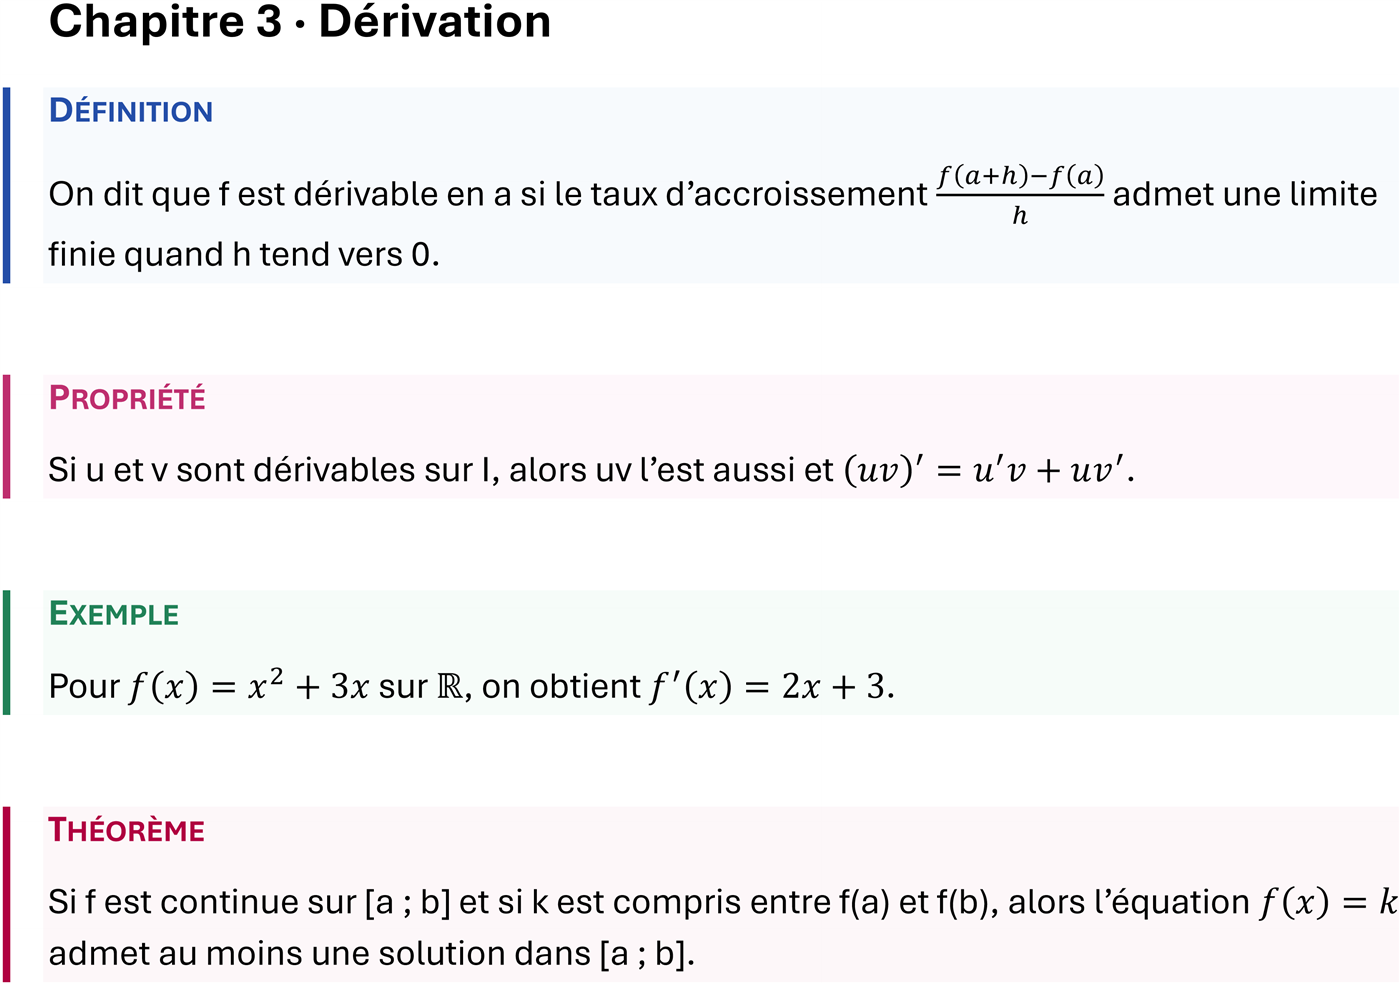
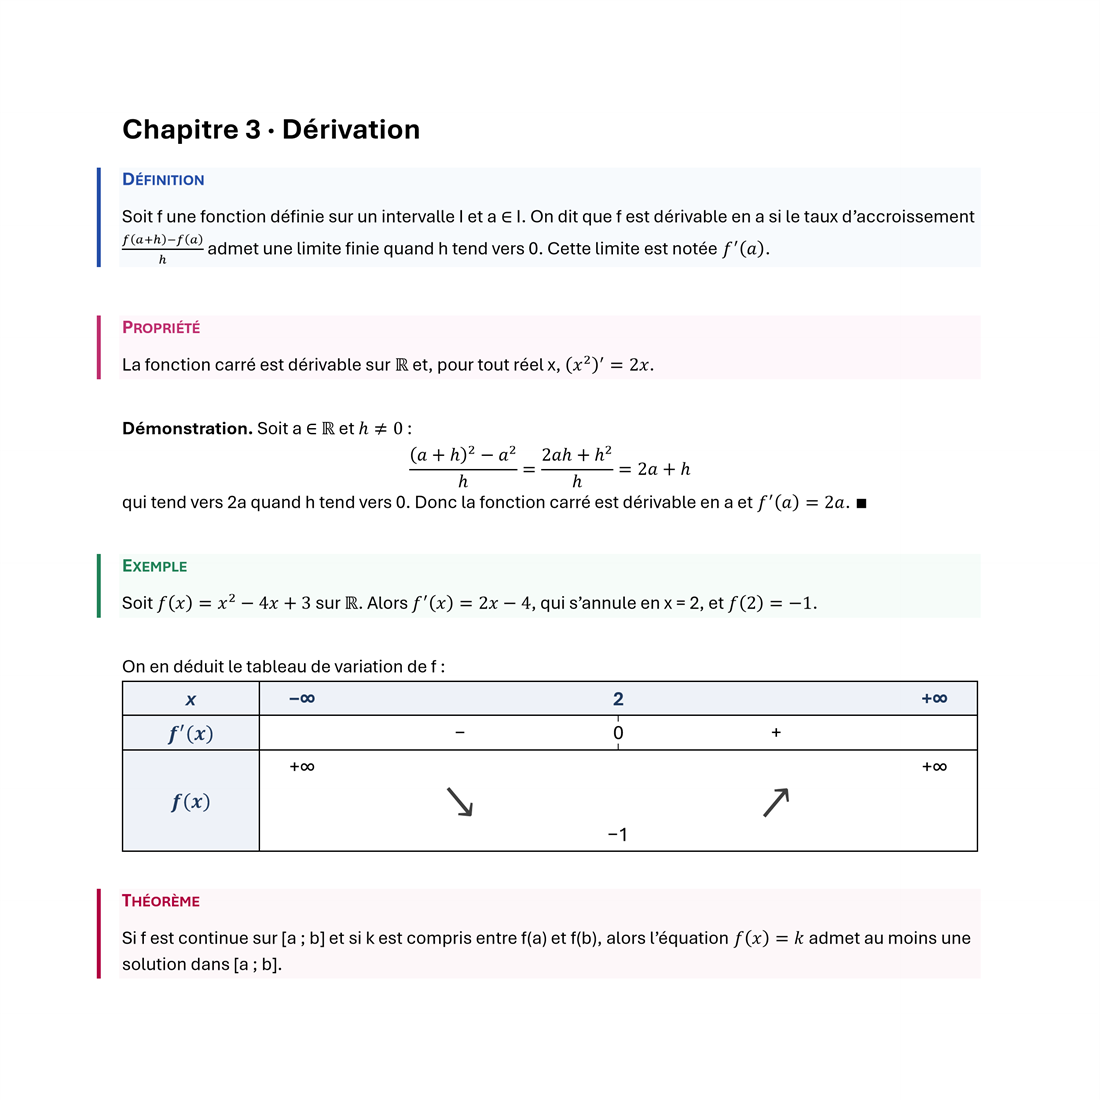
Site - page Profs : cours dans une fenêtre Word simulée, avant / après
Page A4 rendue avec le code de l'add-in (démonstration et tableau de
variation inclus), ruban MathCursor simulé, grand tableau pleine largeur
retiré de « Vos outils ».

diff --git a/docs/prof/index.html b/docs/prof/index.html
@@ -72,9 +72,6 @@
     <section class="section">
       <div class="container">
         <h2 data-i18n="tools_h">Vos outils de cours, directement dans Word</h2>
-        <figure class="card" style="margin: 20px 0 24px; padding: 12px;">
-          <img src="/assets/tableau-variation.png" alt="Tableau de variation de f(x) dans Word, rempli au clavier avec MathCursor" style="width: 100%; height: auto; display: block;" loading="lazy" />
-        </figure>
         <ul class="features">
           <li data-i18n="tools_1"><strong>Tableaux de signe et de variation.</strong> Un bouton dans le ruban, puis tout se remplit au clavier : vous tapez une valeur de <em>x</em> entre deux autres et la colonne s'ajoute, un clic sur une case pose un 0, une valeur interdite ou une flèche.</li>
           <li data-i18n="tools_2"><strong>Encadrés de cours.</strong> Théorème, Définition, Exemple, Propriété : un encadré coloré d'un clic, autour du texte et des formules.</li>
@@ -88,13 +85,45 @@
     <section class="section section--soft">
       <div class="container">
         <h2 data-i18n="show_h">À quoi ressemble un cours tapé dans Word</h2>
-        <p data-i18n="show_p">Un extrait de chapitre : encadrés Définition, Propriété, Exemple et Théorème posés d'un clic, équations Word natives à l'intérieur. Un document que vous imprimez, projetez ou partagez tel quel.</p>
-        <figure class="card" style="margin: 24px 0 0; padding: 20px;">
-          <picture>
-            <source media="(max-width: 640px)" srcset="/assets/cours-derivation-mobile.png" />
-            <img src="/assets/cours-derivation.png" alt="Extrait d'un cours de dérivation dans Word : encadrés Définition, Propriété, Exemple et Théorème avec des équations" style="width: 100%; height: auto; display: block;" loading="lazy" />
-          </picture>
-        </figure>
+        <p data-i18n="show_p">Un extrait de chapitre, tapé au fil de l'eau. À gauche ce que vous écrivez, à droite la page que vos élèves reçoivent : encadrés, équations Word natives, démonstration et tableau de variation.</p>
+
+        <div class="ww" aria-label="Fenêtre Word simulée">
+          <div class="ww-bar"><span class="ww-logo">W</span><span>Chapitre 3 · Dérivation.docx</span></div>
+          <div class="ww-tabs" aria-hidden="true"><span>Fichier</span><span>Accueil</span><span>Insertion</span><span class="ww-hide-s">Mise en page</span><span class="ww-hide-s">Références</span><span class="on">MathCursor</span></div>
+          <div class="ww-ribbon" aria-hidden="true">
+            <div class="ww-grp"><div class="ww-btns"><span class="ww-b ww-b--big"><i>√x</i>Convertir</span><span class="ww-b"><i>▢</i>Encadrer</span></div><div class="ww-gl">Conversion</div></div>
+            <div class="ww-grp ww-hide-s"><div class="ww-btns"><span class="ww-b"><i>H₂O</i>Physique-chimie</span></div><div class="ww-gl">Domaines</div></div>
+            <div class="ww-grp"><div class="ww-btns"><span class="ww-b ww-hide-s"><i>▥</i>Colonnes</span><span class="ww-b on"><i>⊞</i>Tableau</span><span class="ww-b on"><i>▤</i>Encadré</span></div><div class="ww-gl">Mise en page</div></div>
+            <div class="ww-grp ww-hide-s"><div class="ww-btns"><span class="ww-b"><i>⚙</i>Paramètres</span></div><div class="ww-gl">Outils</div></div>
+          </div>
+          <div class="ww-canvas">
+            <div class="ww-col">
+              <div class="ww-cap"><span class="ww-tag" data-i18n="show_before">Avant</span> <span data-i18n="show_before_p">ce que vous tapez</span></div>
+              <div class="ww-page"><div class="ww-typed" lang="fr">
+                <p class="ww-h">Chapitre 3 · Dérivation</p>
+                <span class="ww-chip">Encadré › Définition</span>
+                <p>Soit f une fonction définie sur un intervalle I et a ∈ I. On dit que f est dérivable en a si le taux d'accroissement <code class="ty">(f(a+h) - f(a))/h</code> admet une limite finie quand h tend vers 0. Cette limite est notée <code class="ty">f'(a)</code>.</p>
+                <span class="ww-chip">Encadré › Propriété</span>
+                <p>La fonction carré est dérivable sur ℝ et, pour tout réel x, <code class="ty">(x2)'=2x</code>.</p>
+                <p><strong>Démonstration.</strong> Soit a ∈ ℝ et <code class="ty">h!=0</code> :</p>
+                <p class="ww-c"><code class="ty">((a+h)2 - a2)/h = (2ah + h2)/h = 2a + h</code></p>
+                <p>qui tend vers 2a quand h tend vers 0. Donc la fonction carré est dérivable en a et <code class="ty">f'(a)=2a</code>. ∎</p>
+                <span class="ww-chip">Encadré › Exemple</span>
+                <p>Soit <code class="ty">f(x)=x2-4x+3</code> sur ℝ. Alors <code class="ty">f'(x)=2x-4</code>, qui s'annule en x = 2, et <code class="ty">f(2)=-1</code>.</p>
+                <p>On en déduit le tableau de variation de f :</p>
+                <p class="ww-c"><span class="ww-chip">Tableau</span> puis au clavier : <code class="ty">2</code> <code class="ty">-</code> <code class="ty">+</code> et un clic par flèche</p>
+                <span class="ww-chip">Encadré › Théorème</span>
+                <p>Si f est continue sur [a ; b] et si k est compris entre f(a) et f(b), alors l'équation <code class="ty">f(x)=k</code> admet au moins une solution dans [a ; b].</p>
+              </div></div>
+            </div>
+            <div class="ww-col">
+              <div class="ww-cap"><span class="ww-tag ww-tag--after" data-i18n="show_after">Après</span> <span data-i18n="show_after_p">ce que vos élèves lisent</span></div>
+              <a class="ww-page" href="/assets/cours-derivation.png" target="_blank" rel="noopener">
+                <img src="/assets/cours-derivation.png" alt="Page de cours de dérivation dans Word : encadrés Définition, Propriété, Exemple et Théorème, démonstration et tableau de variation, équations Word natives" loading="lazy" />
+              </a>
+            </div>
+          </div>
+        </div>
       </div>
     </section>
 
@@ -168,7 +197,11 @@
         case_3_p: "Your answer keys are native Word equations: editable, searchable (Ctrl+F), read by screen readers. No frozen images, no plugin required for your colleagues or students to reopen them.",
 
         show_h: "What a lesson typed in Word looks like",
-        show_p: "A chapter excerpt: Definition, Property, Example and Theorem boxes added in one click, with native Word equations inside. A document you print, project or share as is.",
+        show_p: "A chapter excerpt, typed as you go. On the left what you write, on the right the page your students get: boxes, native Word equations, a proof and a variation table.",
+        show_before: "Before",
+        show_before_p: "what you type",
+        show_after: "After",
+        show_after_p: "what your students read",
         tools_h: "Your teaching tools, right in Word",
         tools_1: "<strong>Sign and variation tables.</strong> One ribbon button, then everything is filled in from the keyboard: type an <em>x</em> value between two others and the column is added, one click on a cell puts a 0, a forbidden value or an arrow.",
         tools_2: "<strong>Lesson boxes.</strong> Theorem, Definition, Example, Property: a coloured box in one click, around text and formulas.",

diff --git a/docs/site.css b/docs/site.css
@@ -407,3 +407,39 @@ main > .section:not(.section--soft) + .section:not(.section--soft) { padding-top
 }
 .nav a.active { color: var(--accent-ink); }
 .cta-band a { color: #fff; }
+
+/* ---------- Fenêtre Word simulée (page Profs : avant / après) ---------- */
+.ww { max-width: 980px; margin: 28px auto 0; border: 1px solid #cfd5df; border-radius: 10px; overflow: hidden; background: #fff; box-shadow: 0 12px 32px rgba(22, 35, 58, .12); }
+.ww-bar { display: flex; align-items: center; gap: 10px; background: #2b579a; color: #fff; font-size: 12.5px; padding: 7px 14px; }
+.ww-logo { display: inline-grid; place-items: center; width: 18px; height: 18px; border-radius: 3px; background: #fff; color: #2b579a; font-weight: 800; font-size: 11px; }
+.ww-tabs { display: flex; gap: 2px; background: #f3f3f3; padding: 6px 10px 0; font-size: 12.5px; color: #444; white-space: nowrap; overflow: hidden; }
+.ww-tabs span { padding: 5px 11px 7px; }
+.ww-tabs .on { color: #2b579a; font-weight: 600; background: #fff; border-radius: 4px 4px 0 0; box-shadow: inset 0 -2px 0 #2b579a; }
+.ww-ribbon { display: flex; background: #fff; border-bottom: 1px solid #dcdcdc; padding: 8px 6px 4px; overflow: hidden; }
+.ww-grp { display: flex; flex-direction: column; align-items: center; padding: 0 12px; border-right: 1px solid #e3e3e3; }
+.ww-btns { display: flex; gap: 4px; align-items: flex-end; }
+.ww-b { display: flex; flex-direction: column; align-items: center; gap: 3px; font-size: 11px; color: #333; padding: 4px 7px; border-radius: 4px; white-space: nowrap; }
+.ww-b i { font-style: normal; font-size: 16px; line-height: 22px; color: #2b579a; }
+.ww-b--big i { font-size: 20px; }
+.ww-b.on { background: #e8eefb; outline: 1px solid #b9c9ee; }
+.ww-gl { font-size: 10.5px; color: #777; margin-top: 4px; }
+.ww-canvas { display: grid; grid-template-columns: 1fr 1fr; gap: 22px; background: #e9ebef; padding: 18px 22px 22px; }
+.ww-col { min-width: 0; }
+.ww-cap { font-size: 13.5px; color: var(--ink); margin: 0 0 9px; }
+.ww-tag { display: inline-block; font-weight: 700; font-size: 11.5px; letter-spacing: .04em; text-transform: uppercase; color: #6b7487; background: #fff; border: 1px solid #d5dae3; border-radius: 999px; padding: 1px 9px; margin-right: 4px; }
+.ww-tag--after { color: #fff; background: var(--accent); border-color: var(--accent); }
+.ww-page { display: block; background: #fff; box-shadow: 0 1px 3px rgba(0, 0, 0, .18); container-type: inline-size; aspect-ratio: 1 / 1; overflow: hidden; }
+.ww-page img { display: block; width: 100%; height: auto; }
+.ww-typed { padding: 10.5cqw 11.1cqw 12cqw; font-family: Aptos, Calibri, "Segoe UI", Arial, sans-serif; font-size: max(7.5px, 1.75cqw); line-height: 1.45; color: #111; }
+.ww-typed p { margin: 0 0 .9em; }
+.ww-typed .ww-h { font-size: 1.6em; font-weight: 700; margin: 0 0 1em; }
+.ww-typed .ww-c { text-align: center; }
+.ww-typed .ty { font-family: Consolas, "Cascadia Mono", monospace; font-size: .95em; background: #fff4c2; border-radius: 2px; padding: 0 .2em; color: #111; white-space: normal; }
+.ww-chip { display: inline-block; font-size: .85em; font-weight: 600; color: #2b579a; background: #e8eefb; border: 1px solid #b9c9ee; border-radius: 3px; padding: .05em .5em; margin: 0 0 .5em; }
+p .ww-chip { margin: 0; }
+@media (max-width: 720px) {
+  .ww-canvas { grid-template-columns: 1fr; padding: 14px 12px 16px; }
+  .ww-page { aspect-ratio: auto; }
+  .ww-hide-s { display: none; }
+  .ww-typed { font-size: max(9px, 2.1cqw); }
+}

diff --git a/docs/dev/decisions/2026-10-20-UX-site-visual-redesign.md b/docs/dev/decisions/2026-10-20-UX-site-visual-redesign.md
@@ -65,9 +65,13 @@ vérifiée sur les examens ou des outils tiers.
 > « oui tu peux faire les autres pages maintenant stp je ne sais pas si j'aurai
 > mis profs et amenagement en header par contre :) » — utilisateur.
 
-- **En-tête commun** sans Profs ni Parents & PAP : Démo · Téléchargements ·
-  Installation · bouton Installer · FR/EN. Les pages Profs et Aménagement
-  restent accessibles par les trois parcours de l'accueil et le pied de page.
+- **En-tête commun réduit** : Démo · bouton Installer · FR/EN.
+  > « dans le header y'a trop de truc => Demo + Bouton "installer" ca suffit
+  > non ? toutes les pages sont linkées => guide d'install dans la section
+  > installer c'est ok » — utilisateur, 2026-10-21.
+
+  Profs, Aménagement, Téléchargements et Installation restent accessibles par
+  les parcours de l'accueil, la section Installation et le pied de page.
 - **Pied de page commun** (Démo, Profs, Parents & PAP, Téléchargements,
   Installation, Confidentialité, Contact), clés de traduction `ui_*` injectées
   dans chaque page.
@@ -81,6 +85,31 @@ vérifiée sur les examens ou des outils tiers.
 - **Confidentialité** : intertitres à taille de lecture (`.prose`).
 - **Démo** (`index.html`, `live.html`, source `web-demo`) migrée. Les pages
   `admin/` (privées) gardent leur style.
+
+### Page Profs : cours tapé dans Word, avant / après (2026-10-21)
+
+> « http://localhost:8765/prof/ => demo des encadrés pour qu'ils puissent
+> sentir la richesse visuelle d'un cours ce serait cool » puis « il faudrait
+> avoir la page bien présentée, avec une demonstration aussi + un tableau de
+> signe dedans, et eviter du coup le tableau de signe en pleine page juste au
+> dessus, pourrais tu avoir un rendu qui doit aussi plus "word", plus grande
+> marges police plus petite. eventuellement le bandeau simulé au dessus ? et la
+> page globale plus petite => ptetre pour que ca soit sympa, un Avant / Apres »
+> — utilisateur, 2026-10-21.
+
+- **Fenêtre Word simulée** en HTML/CSS (barre de titre, onglets, ruban
+  MathCursor avec Tableau et Encadré en évidence) contenant **deux pages A4
+  côte à côte** : « Avant, ce que vous tapez » (texte et notation clavier
+  surlignée, boutons du ruban utilisés) et « Après, ce que vos élèves lisent ».
+- La page « Après » est un **vrai rendu Word** produit avec le code de l'add-in
+  (A4, marges 66 pt, corps 10 pt) : encadrés Définition, Propriété, Exemple,
+  Théorème, une démonstration (dérivée de la fonction carré) et le tableau de
+  variation de x² − 4x + 3. Image unique `assets/cours-derivation.png`,
+  cliquable pour l'agrandir ; la variante mobile est retirée.
+- Les saisies de la page « Avant » ont été vérifiées sur le moteur (conversion
+  directe ou première proposition correcte).
+- Le grand tableau de variation pleine largeur de « Vos outils de cours » est
+  retiré : il figure maintenant dans le cours.
 
 ## Tradeoff & alternatives écartées
 
